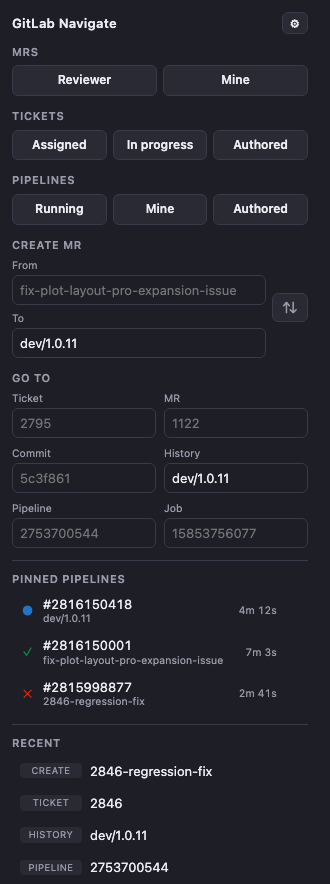
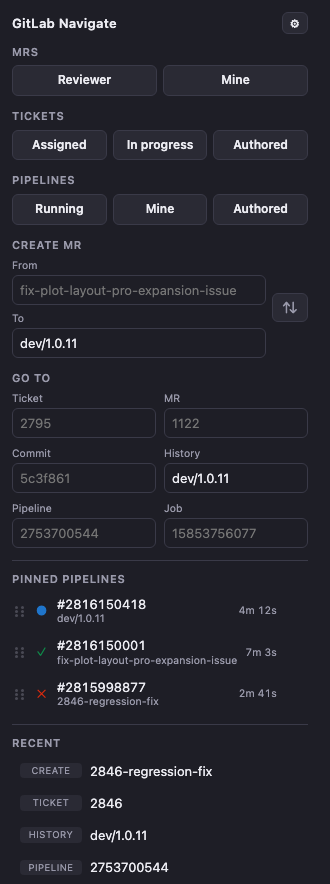
Add drag-and-drop reordering for pinned pipelines (0.17.0)
Each pinned row gets a grip handle (CSS-drawn dot grid, not a font glyph)
that's the sole drag source, so dragging never conflicts with clicking
the row to open it or hovering to unpin. Order is now explicit:
reorderPinned() in lib/storage.js splices the entry to its new array
position and persists the whole list, replacing the old implicit
"most recently pinned first" ordering.

Changed region(s): [[0.0606, 0.6719, 0.7273, 0.7941], [0.0606, 0.733, 0.0909, 0.7941]]

diff --git a/popup.js b/popup.js
@@ -26,6 +26,7 @@ import {
   pinPipeline,
   pushHistory,
   removeHistory,
+  reorderPinned,
   unpinPipeline,
   updatePinned,
   setBase,
@@ -85,6 +86,7 @@ let swappedUrl = '';
 let pinnablePipeline = null;
 let pinnedEntries = [];
 let tickTimer = null;
+let draggedIndex = null;
 
 function showError(element, message) {
   element.textContent = message;
@@ -201,11 +203,17 @@ function pipelineWebUrl(entry) {
   return entry.webUrl || `${entry.base}/-/pipelines/${entry.id}`;
 }
 
+function clearDragOverMarkers() {
+  for (const li of pinnedList.querySelectorAll('.pin-item')) {
+    li.classList.remove('drag-over-top', 'drag-over-bottom');
+  }
+}
+
 function renderPinned() {
   pinnedList.replaceChildren();
   pinned.hidden = pinnedEntries.length === 0;
 
-  for (const entry of pinnedEntries) {
+  pinnedEntries.forEach((entry, index) => {
     const status = document.createElement('span');
     status.className = 'pin-status';
     status.dataset.status = entry.status ?? 'unknown';
@@ -249,11 +257,61 @@ function renderPinned() {
       await refreshPinButton();
     });
 
+    // A dedicated grab handle, rather than the whole row, so dragging never
+    // fights with clicking nav or remove.
+    const handle = document.createElement('span');
+    handle.className = 'pin-handle';
+    handle.draggable = true;
+    handle.title = 'Drag to reorder';
+    handle.setAttribute('aria-label', 'Drag to reorder');
+
     const item = document.createElement('li');
     item.className = 'pin-item';
-    item.append(nav, remove);
+    item.append(handle, nav, remove);
     pinnedList.append(item);
-  }
+
+    handle.addEventListener('dragstart', (event) => {
+      draggedIndex = index;
+      item.classList.add('dragging');
+      event.dataTransfer.effectAllowed = 'move';
+      // Firefox requires data to be set for the drag to actually start.
+      event.dataTransfer.setData('text/plain', String(index));
+    });
+
+    handle.addEventListener('dragend', () => {
+      item.classList.remove('dragging');
+      draggedIndex = null;
+      clearDragOverMarkers();
+    });
+
+    item.addEventListener('dragover', (event) => {
+      if (draggedIndex === null) return;
+      event.preventDefault();
+      event.dataTransfer.dropEffect = 'move';
+
+      const isAfter = event.clientY - item.getBoundingClientRect().top > item.offsetHeight / 2;
+      item.classList.toggle('drag-over-bottom', isAfter);
+      item.classList.toggle('drag-over-top', !isAfter);
+    });
+
+    item.addEventListener('dragleave', () => {
+      item.classList.remove('drag-over-top', 'drag-over-bottom');
+    });
+
+    item.addEventListener('drop', async (event) => {
+      event.preventDefault();
+      clearDragOverMarkers();
+      if (draggedIndex === null || draggedIndex === index) return;
+
+      const isAfter = event.clientY - item.getBoundingClientRect().top > item.offsetHeight / 2;
+      let targetIndex = isAfter ? index + 1 : index;
+      if (draggedIndex < targetIndex) targetIndex -= 1;
+
+      const moved = pinnedEntries[draggedIndex];
+      pinnedEntries = await reorderPinned(moved.base, moved.id, targetIndex);
+      renderPinned();
+    });
+  });
 
   scheduleTick();
 }

diff --git a/popup.css b/popup.css
@@ -297,6 +297,55 @@ input[type="text"]:disabled {
   background: var(--chip);
 }
 
+/* A 2x3 dot grid drawn with box-shadow, so the grip icon renders identically
+   everywhere instead of depending on emoji/Braille glyph support. */
+.pin-handle {
+  flex: none;
+  width: 12px;
+  height: 16px;
+  position: relative;
+  cursor: grab;
+  opacity: 0.35;
+}
+
+.pin-item:hover .pin-handle,
+.pin-item:focus-within .pin-handle {
+  opacity: 0.9;
+}
+
+.pin-handle:active {
+  cursor: grabbing;
+}
+
+.pin-handle::before {
+  content: '';
+  position: absolute;
+  top: 3px;
+  left: 3px;
+  width: 3px;
+  height: 3px;
+  border-radius: 50%;
+  background: var(--muted);
+  box-shadow:
+    0 4px 0 var(--muted),
+    0 8px 0 var(--muted),
+    6px 0 0 var(--muted),
+    6px 4px 0 var(--muted),
+    6px 8px 0 var(--muted);
+}
+
+.pin-item.dragging {
+  opacity: 0.4;
+}
+
+.pin-item.drag-over-top {
+  box-shadow: inset 0 2px 0 var(--accent);
+}
+
+.pin-item.drag-over-bottom {
+  box-shadow: inset 0 -2px 0 var(--accent);
+}
+
 .recent {
   margin-top: 12px;
   padding-top: 10px;

diff --git a/lib/storage.js b/lib/storage.js
@@ -91,6 +91,24 @@ export async function updatePinned(updates) {
   return savePinned(merged);
 }
 
+/**
+ * Move a pinned pipeline to a new position in the list.
+ * @param {string} base - the pipeline's repo base URL
+ * @param {string} id - the pipeline ID
+ * @param {number} targetIndex - 0-based target position in the list
+ * @returns {Promise<Array>} the reordered pinned list
+ */
+export async function reorderPinned(base, id, targetIndex) {
+  const previous = await getPinned();
+  const currentIndex = previous.findIndex((p) => p.base === base && p.id === id);
+  if (currentIndex === -1) return previous;
+
+  const reordered = [...previous];
+  const [item] = reordered.splice(currentIndex, 1);
+  reordered.splice(targetIndex, 0, item);
+  return savePinned(reordered);
+}
+
 export async function removeHistory(url) {
   const previous = await getHistory();
   const history = previous.filter((item) => item.url !== url);

diff --git a/docs/superpowers/specs/2026-08-04-gitlab-navigate-design.md b/docs/superpowers/specs/2026-08-04-gitlab-navigate-design.md
@@ -242,7 +242,7 @@ across machines; history lives in `local` because it is machine-specific noise.
 {
   "manifest_version": 3,
   "name": "GitLab Navigate",
-  "version": "0.14.0",
+  "version": "0.17.0",
   "key": "<base64 SPKI public key — pins the extension ID>",
   "permissions": ["storage", "activeTab"],
   "optional_host_permissions": ["*://*/*"],
@@ -293,6 +293,18 @@ pipeline is pinned.
 
 Storage is `chrome.storage.local`, capped at 10, keyed by `base` + `id` — pinned
 pipelines are transient work state, like history, not settings.
+
+**Order is explicit, not derived.** Pinned entries are stored as an array and rendered
+in array order; `reorderPinned(base, id, targetIndex)` in `lib/storage.js` splices the
+matching entry out and reinserts it at `targetIndex`, then re-saves the whole array —
+there is no separate `order` field to keep in sync. Dragging is implemented with the
+native HTML5 drag events (`dragstart`/`dragover`/`dragleave`/`drop`) on a dedicated
+`.pin-handle` grip rather than the row itself, so a drag gesture never competes with
+clicking the row to navigate or hovering it to reveal the unpin button. `dragover`
+compares the pointer's Y position against the row's vertical midpoint to decide whether
+the drop lands above or below that row, shown live via `.drag-over-top` /
+`.drag-over-bottom`; `drop` adjusts for the array shifting by one slot when the dragged
+item's original index is before the target.
 
 ## Data Flow
 

diff --git a/CHANGELOG.md b/CHANGELOG.md
@@ -1,5 +1,16 @@
 # Changelog
 
+## 0.17.0
+
+- Pinned pipelines can now be reordered by drag-and-drop. Each row has a small grip
+  handle on the left; drag it up or down and drop to move that pipeline, with a line
+  showing where it will land.
+- Order is now explicit rather than "most recently pinned first": `reorderPinned` in
+  `lib/storage.js` splices the pipeline out of the pinned array and reinserts it at the
+  drop position, so it's stable across popup opens.
+- Only the grip handle is draggable, not the whole row, so dragging never conflicts
+  with clicking a row to open it or hovering to unpin it.
+
 ## 0.16.1
 
 - The **History** box now pre-fills with your default MR target branch, same as the

diff --git a/README.md b/README.md
@@ -143,6 +143,10 @@ row to open the pipeline; hover it to reveal an unpin button.
 To pin: open a pipeline page (`.../-/pipelines/2816150418`) and the popup shows **Pin
 this pipeline**.
 
+Drag the grip handle (⠿) on the left of a row to reorder it — a line shows where it will
+land. Only the handle is draggable, so dragging never conflicts with clicking the row to
+open it. Order persists across popup opens.
+
 Status is refreshed each time the popup opens. Cached values appear instantly and are
 replaced when the refresh lands, so the list still reads sensibly offline.
 
